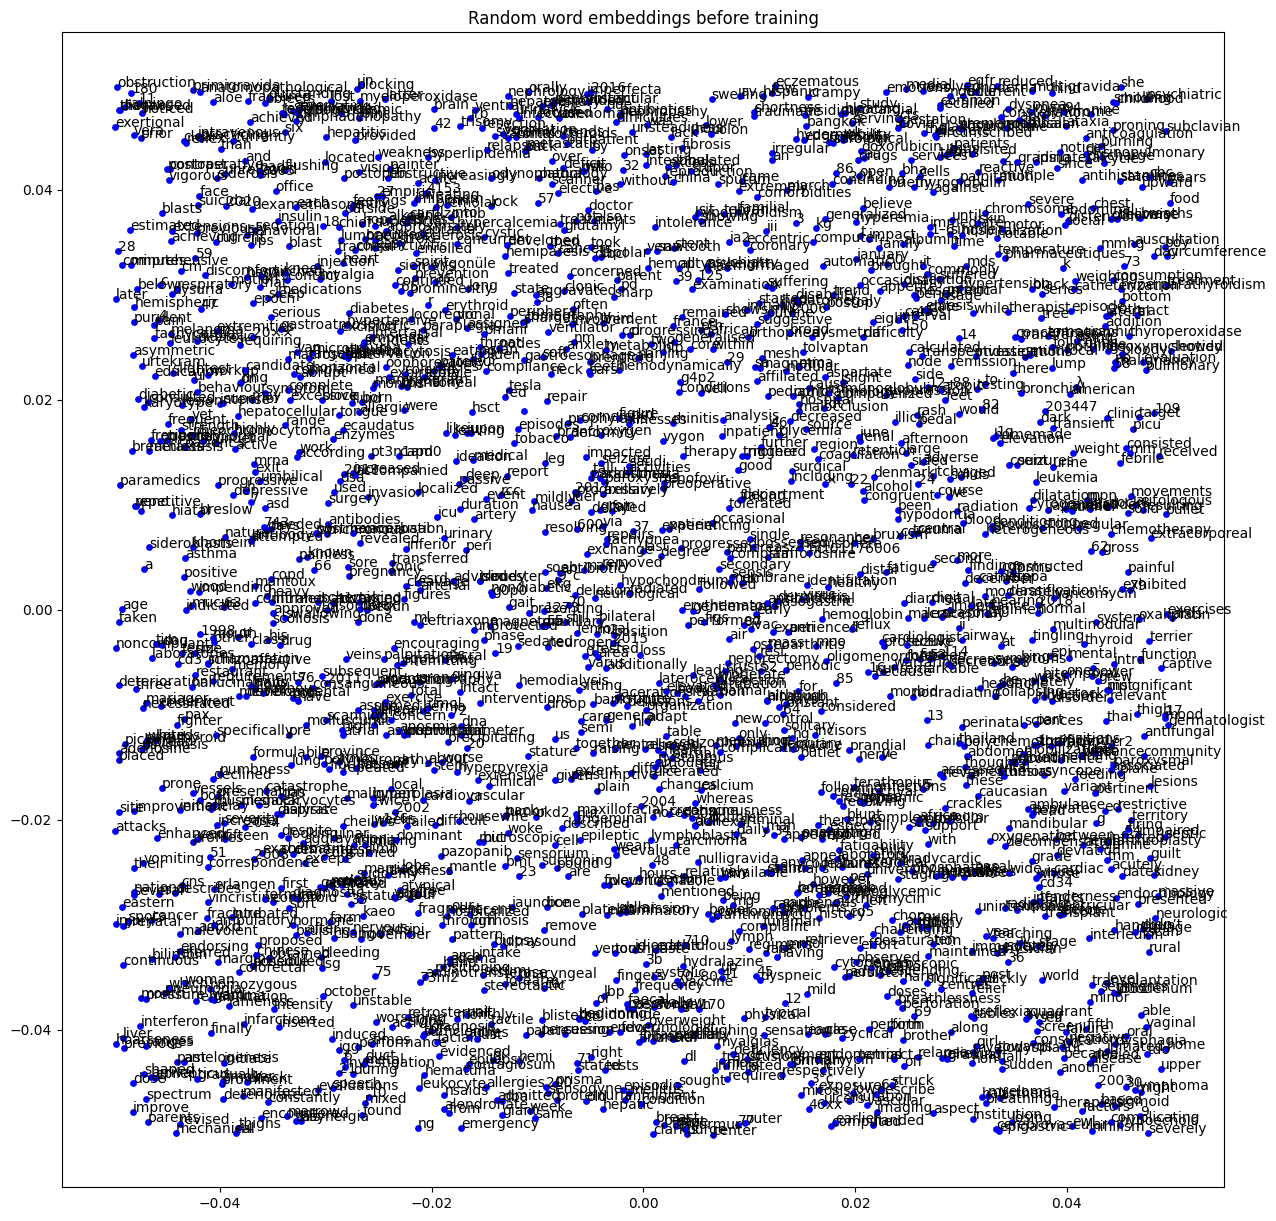
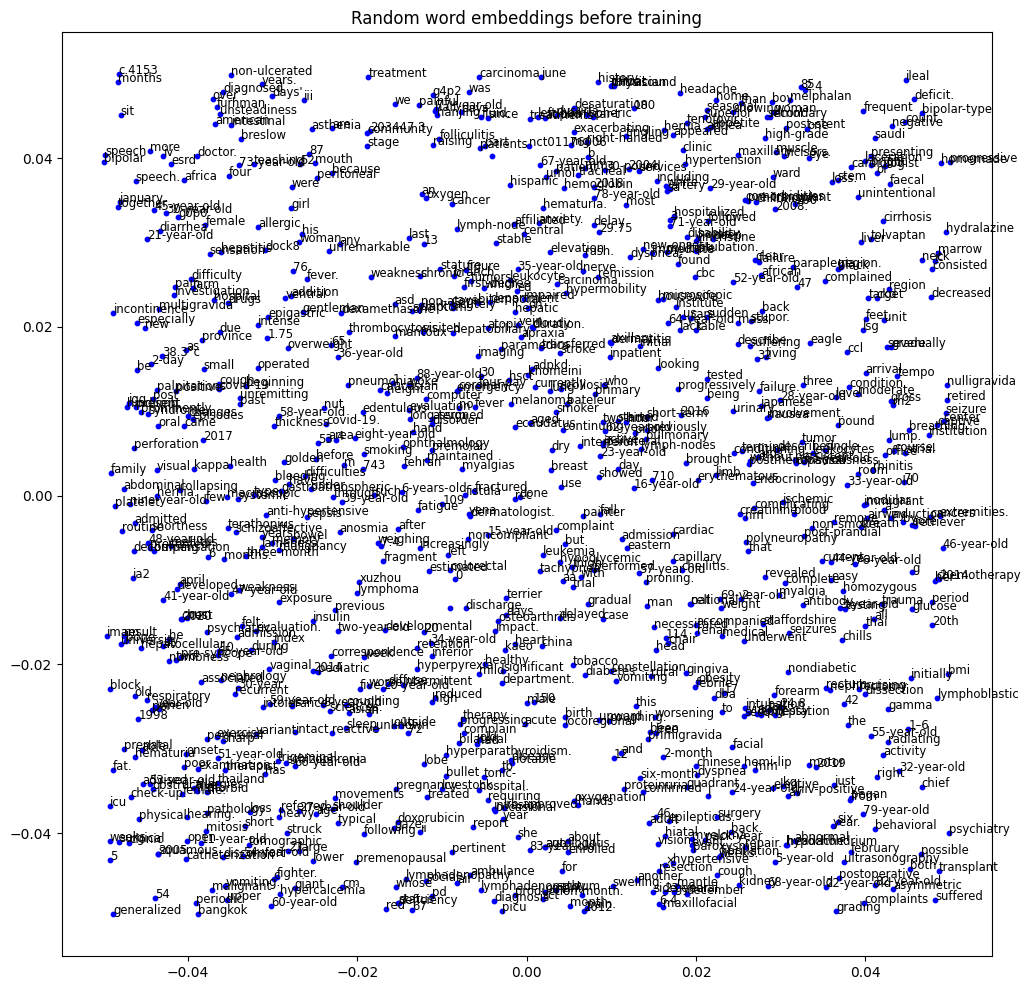
updated

diff --git a/_posts/2023-09-14-create-word-embeddings-from-pubmed-patient summaries.md b/_posts/2023-09-14-create-word-embeddings-from-pubmed-patient summaries.md
@@ -159,7 +159,7 @@ The above array represents the text of Document 1.  A sample mapping of the arra
 
 ## Create an embedding 
 
-To create the embedding, we create a Keras Sequential model.  Sequential means that each layer in the network has exactly one input and one output.  To define the embedding, we need 3 inputs:
+To create the embedding, we create a Keras Sequential model.  Sequential means that each layer in the network has exactly one input (tensor) and one output (tensor).  To define the embedding, we need 3 inputs:
 
 - input_dim: size of vocabulary
 - output_dim: number of dimensions the word should be embedded into
@@ -244,6 +244,9 @@ Let's see how this looks visually.  Since these embeddings are not trained, it w
 ## Visualize trained embeddings
 
 After adding the embedding layer, we have a N dimension.  We need to compress that into a 2D vector.  
+
+
+![](/assets/images/2023-09/output2.png)
 
 ## Conclusion
 
